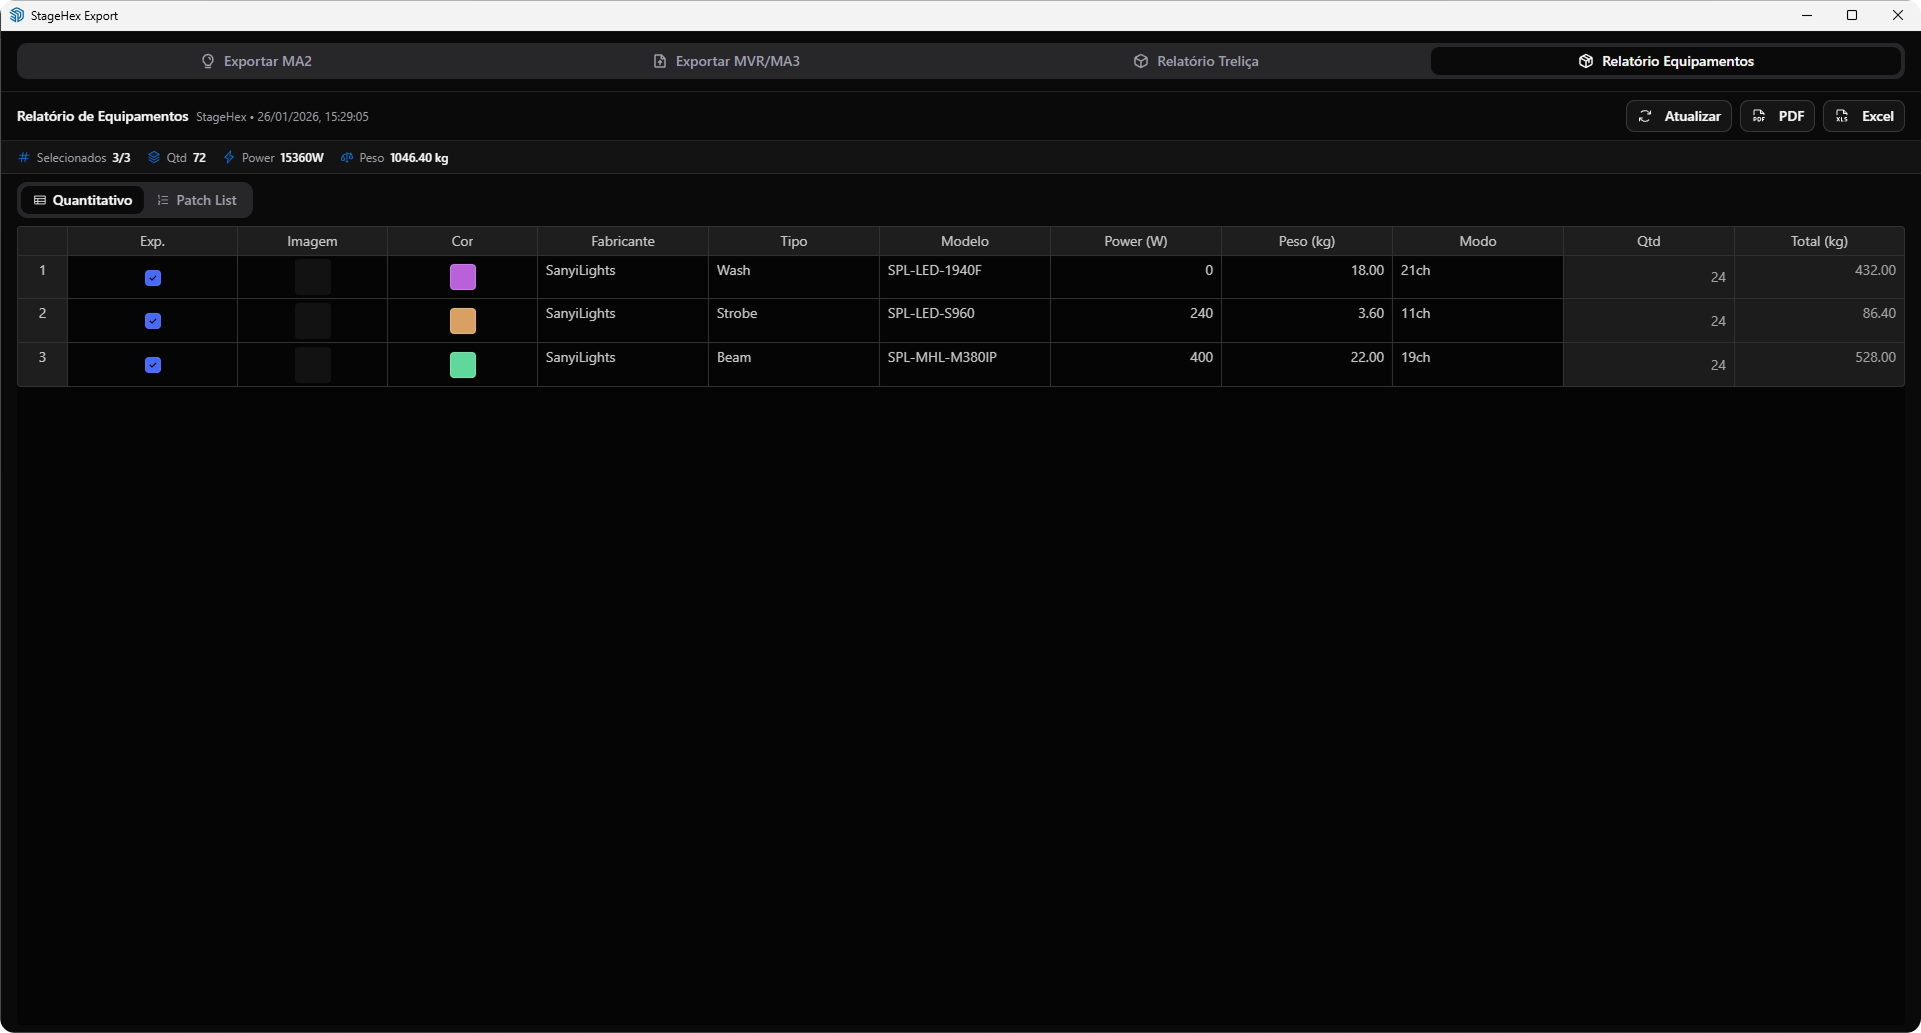
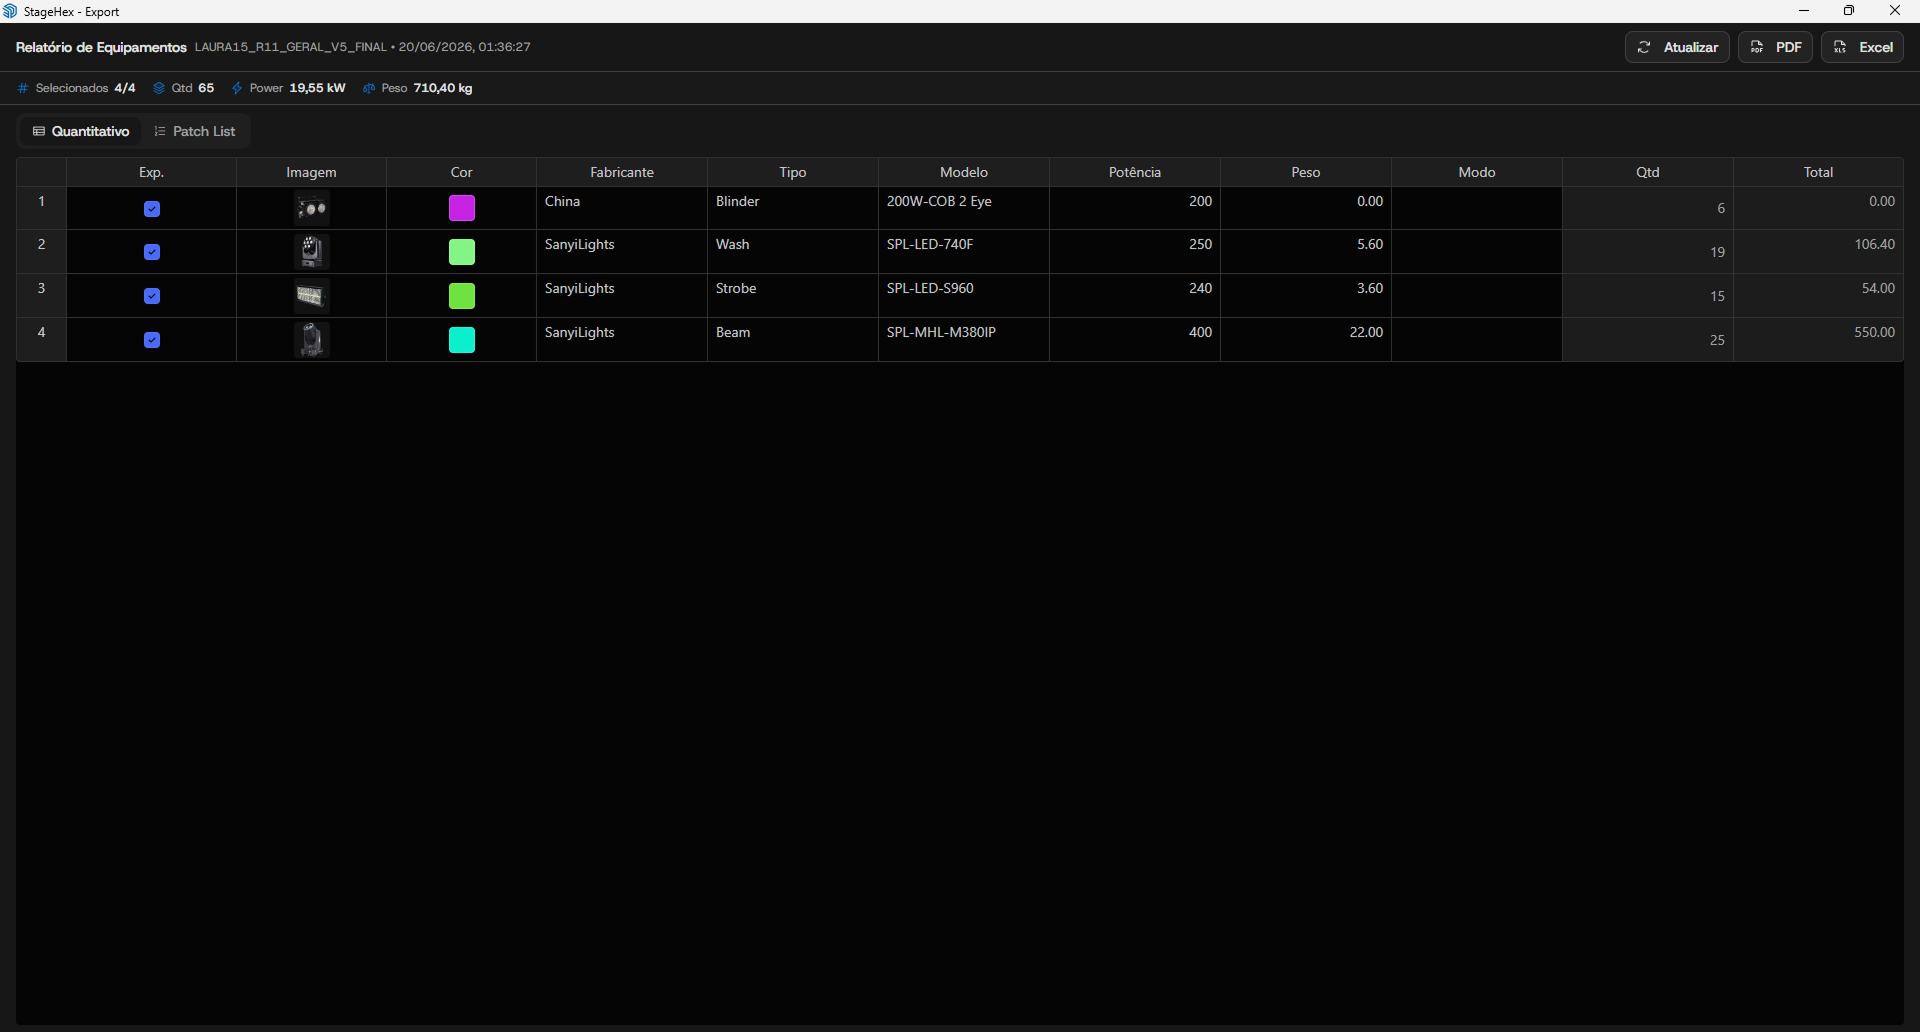
Adiciona Relatório de LED em Exportar e Relatórios
Nova seção documentando o relatório de painéis de LED com a estrutura
real do export-dialog: agrupamento por modelo + grupo (PDP, Lateral),
colunas Painéis / Área Total (m²) / Power Total (W) / Peso Total (kg)
e resumo com Painéis, Área, Power e Peso.

Atualiza também as imagens existentes de export-report-light e
export-report-truss para a versão mais recente.

diff --git a/visao-geral/plugin-sketchup/exportacao.md b/visao-geral/plugin-sketchup/exportacao.md
@@ -562,3 +562,101 @@ No topo são exibidas informações consolidadas:
 {% hint style="info" %}
 Arraste as linhas para reordenar a lista. Selecione células para editar valores específicos antes de exportar.
 {% endhint %}
+
+***
+
+## Relatório de LED
+
+Gera relatórios detalhados de todos os painéis de LED do projeto, agrupados por modelo e grupo (PDP, Lateral, etc.).
+
+<figure><img src="../../.gitbook/assets/sketchup/export-interface/export-report-led.png" alt="Relatório de LED"><figcaption><p>Relatório de LED</p></figcaption></figure>
+
+### Resumo
+
+No topo são exibidas informações consolidadas dos grupos selecionados:
+
+* **Selecionados** - Quantidade de grupos selecionados / total
+* **Painéis** - Quantidade total de painéis
+* **Área** - Área total em m²
+* **Power** - Potência total em Watts
+* **Peso** - Peso total em kg
+
+### Tabela de Grupos de LED
+
+Cada linha representa um grupo de painéis (mesmo modelo + mesmo nome de grupo).
+
+<table>
+<thead>
+<tr>
+<th width="150">Coluna</th>
+<th>Descrição</th>
+</tr>
+</thead>
+<tbody>
+<tr>
+<td><strong>Exp.</strong></td>
+<td>Checkbox para incluir na exportação</td>
+</tr>
+<tr>
+<td><strong>Imagem</strong></td>
+<td>Preview do painel</td>
+</tr>
+<tr>
+<td><strong>Cor</strong></td>
+<td>Cor configurada no Color System</td>
+</tr>
+<tr>
+<td><strong>Modelo</strong></td>
+<td>Modelo do painel</td>
+</tr>
+<tr>
+<td><strong>Grupo</strong></td>
+<td>Nome do agrupamento (ex: PDP, Lateral)</td>
+</tr>
+<tr>
+<td><strong>Painéis</strong></td>
+<td>Quantidade de painéis no grupo</td>
+</tr>
+<tr>
+<td><strong>Área Total (m²)</strong></td>
+<td>Área total do grupo em metros quadrados</td>
+</tr>
+<tr>
+<td><strong>Power Total (W)</strong></td>
+<td>Potência total do grupo em Watts</td>
+</tr>
+<tr>
+<td><strong>Peso Total (kg)</strong></td>
+<td>Peso total do grupo em kg</td>
+</tr>
+</tbody>
+</table>
+
+### Exportação
+
+<table>
+<thead>
+<tr>
+<th width="150">Botão</th>
+<th>Descrição</th>
+</tr>
+</thead>
+<tbody>
+<tr>
+<td><strong>Atualizar</strong></td>
+<td>Recarrega os dados do projeto</td>
+</tr>
+<tr>
+<td><strong>PDF</strong></td>
+<td>Exporta relatório em formato PDF</td>
+</tr>
+<tr>
+<td><strong>Excel</strong></td>
+<td>Exporta relatório em formato Excel (.xlsx)</td>
+</tr>
+</tbody>
+</table>
+
+{% hint style="info" %}
+Arraste as linhas para reordenar a lista. Selecione células para editar valores específicos antes de exportar.
+{% endhint %}
